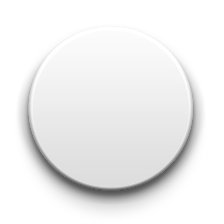
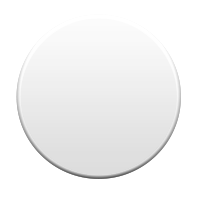
Commit

Changed region(s): [[0.06, 0.33, 0.93, 0.93], [0.81, 0.33, 0.84, 0.36]]

diff --git a/About Me/ButtonNavigationView.m b/About Me/ButtonNavigationView.m
@@ -10,6 +10,8 @@
 
 @implementation ButtonNavigationView
 
+@synthesize delegate;
+
 #pragma mark - HandleEvents
 
 - (void)buttonPress {
@@ -26,12 +28,37 @@
     }
 }
 
+#pragma mark - AwesomeMenu Delegate
+
 - (void)AwesomeMenu:(AwesomeMenu *)menu didSelectIndex:(NSInteger)idx {
-    NSLog(@"did select index: %i", idx);
+    [self performSelector:@selector(transformUp) withObject:nil afterDelay:.2];
+    [delegate didSelectButtonWithIndex:idx];
+}
+
+- (void)AwesomeMenuDidStartOpening:(AwesomeMenu *)menu {
+    [UIView animateWithDuration:.2 animations:^{
+        
+        CGAffineTransform translate = CGAffineTransformMakeTranslation(0, 150);
+        CGAffineTransform scale = CGAffineTransformMakeScale(1, 1);
+        self.transform = CGAffineTransformConcat(translate, scale);
+    }];
+}
+
+- (void)AwesomeMenuDidStartClosing:(AwesomeMenu *)menu {
+    
+    [self performSelector:@selector(transformUp) withObject:nil afterDelay:.5];
 }
 
 - (void)AwesomeMenuDidFinishAnimationOpen:(AwesomeMenu *)menu {
     NSLog(@"animation did open");
+}
+
+- (void)transformUp {
+    [UIView animateWithDuration:.2 animations:^{
+        CGAffineTransform translate = CGAffineTransformMakeTranslation(0, 0);
+        CGAffineTransform scale = CGAffineTransformMakeScale(.5, .5);
+        self.transform = CGAffineTransformConcat(translate, scale);
+    }];
 }
 
 #pragma mark - UIViewController Methods
@@ -49,15 +76,27 @@
 //    buttons = [NSMutableArray array];
     
     
-    AwesomeMenuItem *item1 = [[AwesomeMenuItem alloc] initWithImage:[UIImage imageNamed:@"circle_button.png"] highlightedImage:[UIImage imageNamed:@"circle_button_pressed.png"]];
-    AwesomeMenuItem *item2 = [[AwesomeMenuItem alloc] initWithImage:[UIImage imageNamed:@"circle_button.png"] highlightedImage:[UIImage imageNamed:@"circle_button_pressed.png"]];
-    AwesomeMenuItem *item3 = [[AwesomeMenuItem alloc] initWithImage:[UIImage imageNamed:@"circle_button.png"] highlightedImage:[UIImage imageNamed:@"circle_button_pressed.png"]];
-    AwesomeMenuItem *item4 = [[AwesomeMenuItem alloc] initWithImage:[UIImage imageNamed:@"circle_button.png"] highlightedImage:[UIImage imageNamed:@"circle_button_pressed.png"]];
-    AwesomeMenuItem *item5 = [[AwesomeMenuItem alloc] initWithImage:[UIImage imageNamed:@"circle_button.png"] highlightedImage:[UIImage imageNamed:@"circle_button_pressed.png"]];
-    AwesomeMenuItem *item6 = [[AwesomeMenuItem alloc] initWithImage:[UIImage imageNamed:@"circle_button.png"] highlightedImage:[UIImage imageNamed:@"circle_button_pressed.png"]];
+    AwesomeMenuItem *item1 = [[AwesomeMenuItem alloc] initWithImage:[UIImage imageNamed:@"circle_button.png"] highlightedImage:[UIImage imageNamed:@"circle_button_pressed.png"] ContentImage:nil highlightedContentImage:nil];
+    AwesomeMenuItem *item2 = [[AwesomeMenuItem alloc] initWithImage:[UIImage imageNamed:@"circle_button.png"] highlightedImage:[UIImage imageNamed:@"circle_button_pressed.png"] ContentImage:nil highlightedContentImage:nil];
+    AwesomeMenuItem *item3 = [[AwesomeMenuItem alloc] initWithImage:[UIImage imageNamed:@"circle_button.png"] highlightedImage:[UIImage imageNamed:@"circle_button_pressed.png"] ContentImage:nil highlightedContentImage:nil];
+    AwesomeMenuItem *item4 = [[AwesomeMenuItem alloc] initWithImage:[UIImage imageNamed:@"circle_button.png"] highlightedImage:[UIImage imageNamed:@"circle_button_pressed.png"] ContentImage:nil highlightedContentImage:nil];
+    AwesomeMenuItem *item5 = [[AwesomeMenuItem alloc] initWithImage:[UIImage imageNamed:@"circle_button.png"] highlightedImage:[UIImage imageNamed:@"circle_button_pressed.png"] ContentImage:nil highlightedContentImage:nil];
+    AwesomeMenuItem *item6 = [[AwesomeMenuItem alloc] initWithImage:[UIImage imageNamed:@"circle_button.png"] highlightedImage:[UIImage imageNamed:@"circle_button_pressed.png"] ContentImage:nil highlightedContentImage:nil];
 
+//    UIImage *storyMenuItemImage = [UIImage imageNamed:@"bg-menuitem.png"];
+//    UIImage *storyMenuItemImagePressed = [UIImage imageNamed:@"bg-menuitem-highlighted.png"];
+//    UIImage *starImage = [UIImage imageNamed:@"icon-star.png"];
+//    AwesomeMenuItem *starMenuItem1 = [[AwesomeMenuItem alloc] initWithImage:storyMenuItemImage
+//                                                           highlightedImage:storyMenuItemImagePressed
+//                                                               ContentImage:starImage
+//                                                    highlightedContentImage:nil];
+//    AwesomeMenuItem *starMenuItem2 = [[AwesomeMenuItem alloc] initWithImage:storyMenuItemImage
+//                                                           highlightedImage:storyMenuItemImagePressed
+//                                                               ContentImage:starImage
+//                                                    highlightedContentImage:nil];
     
     NSArray *menus = [NSArray arrayWithObjects:item1, item2, item3, item4, item5, item6, nil];
+    //NSArray *menus = [NSArray arrayWithObjects:starMenuItem1, starMenuItem2, nil];
     
     AwesomeMenu *menu = [[AwesomeMenu alloc] initWithFrame:CGRectMake(100, 100, 320, 200) menus:menus];
     

diff --git a/About Me/ViewController.m b/About Me/ViewController.m
@@ -14,9 +14,25 @@
 
 @implementation ViewController
 
+#pragma mark - ButtonNavigationViewDelegate
+
+- (void)didSelectButtonWithIndex:(int)index {
+    NSLog(@"did select index: %i", index);
+    if (index == 0) {
+        //about me
+        AboutMeViewController *aboutMe = [[AboutMeViewController alloc] init];
+        aboutMe.view.frame = CGRectOffset(aboutMe.view.frame, 0, 20);
+        aboutMe.view.alpha = 0.0f;
+        aboutMe.view.transform = CGAffineTransformMakeScale(.8, .8);
+        [self.view addSubview:aboutMe.view];
+        [UIView animateWithDuration:.2f animations:^{
+            aboutMe.view.alpha = 1.0f;
+            aboutMe.view.transform = CGAffineTransformMakeScale(1, 1);
+        }];
+    }
+}
+
 #pragma mark - Handle Events
-
-
 
 #pragma mark - UIViewController Methods
 
@@ -25,26 +41,16 @@
     [super viewDidLoad];
 	// Do any additional setup after loading the view, typically from a nib.
     
-    //buttonNavView = [[ButtonNavigationView alloc] initWithFrame:CGRectMake(0, -1 * self.view.frame.size.height + heightOfButton, self.view.frame.size.width, self.view.frame.size.height)];
-    buttonNavView = [[ButtonNavigationView alloc] initWithFrame:CGRectMake(0, 0, self.view.frame.size.width, self.view.frame.size.height)];
-    //mason test
-    //[self.view addSubview:buttonNavView];
     
-    AwesomeMenuItem *item1 = [[AwesomeMenuItem alloc] initWithImage:[UIImage imageNamed:@"circle_button.png"] highlightedImage:[UIImage imageNamed:@"circle_button_pressed.png"]];
-    AwesomeMenuItem *item2 = [[AwesomeMenuItem alloc] initWithImage:[UIImage imageNamed:@"circle_button.png"] highlightedImage:[UIImage imageNamed:@"circle_button_pressed.png"]];
-    AwesomeMenuItem *item3 = [[AwesomeMenuItem alloc] initWithImage:[UIImage imageNamed:@"circle_button.png"] highlightedImage:[UIImage imageNamed:@"circle_button_pressed.png"]];
-    AwesomeMenuItem *item4 = [[AwesomeMenuItem alloc] initWithImage:[UIImage imageNamed:@"circle_button.png"] highlightedImage:[UIImage imageNamed:@"circle_button_pressed.png"]];
-    AwesomeMenuItem *item5 = [[AwesomeMenuItem alloc] initWithImage:[UIImage imageNamed:@"circle_button.png"] highlightedImage:[UIImage imageNamed:@"circle_button_pressed.png"]];
-    AwesomeMenuItem *item6 = [[AwesomeMenuItem alloc] initWithImage:[UIImage imageNamed:@"circle_button.png"] highlightedImage:[UIImage imageNamed:@"circle_button_pressed.png"]];
-    
-    
-    NSArray *menus = [NSArray arrayWithObjects:item1, item2, item3, item4, item5, item6, nil];
-    
-    AwesomeMenu *menu = [[AwesomeMenu alloc] initWithFrame:CGRectMake(100, 100, 320, 200) menus:menus];
-    
-    menu.startPoint = CGPointMake(60, 150);
-    menu.delegate = self;
-    [self.view addSubview:menu];
+    buttonNavView = [[ButtonNavigationView alloc] initWithFrame:CGRectMake(0, -1 * self.view.frame.size.height/2 + heightOfButton/2, self.view.frame.size.width, self.view.frame.size.height)];
+    buttonNavView.delegate = self;
+    buttonNavView.transform = CGAffineTransformMakeScale(.5, .5);
+    [self.view.window addSubview:buttonNavView];
+
+    UIView *test = [[UIView alloc] initWithFrame:CGRectMake(0, 0, 1500, 1500)];
+    test.backgroundColor = [UIColor blueColor];
+    [self.view.window addSubview:test];
+
     
 }
 

diff --git a/About Me/AwesomeMenu.m b/About Me/AwesomeMenu.m
@@ -143,6 +143,8 @@ static CGPoint RotateCGPointAroundCenter(CGPoint point, CGPoint center, float an
 
 - (void)touchesBegan:(NSSet *)touches withEvent:(UIEvent *)event
 {
+    NSLog(@"touches began on view");
+    [_delegate AwesomeMenuDidStartClosing:self];
     self.expanding = !self.isExpanding;
 }
 
@@ -151,6 +153,8 @@ static CGPoint RotateCGPointAroundCenter(CGPoint point, CGPoint center, float an
 {
     if (item == _addButton) 
     {
+        NSLog(@"touches starting");
+        [_delegate AwesomeMenuDidStartOpening:self];
         self.expanding = !self.isExpanding;
     }
 }
@@ -161,6 +165,7 @@ static CGPoint RotateCGPointAroundCenter(CGPoint point, CGPoint center, float an
     {
         return;
     }
+    NSLog(@"touches ended");
     // blowup the selected menu button
     CAAnimationGroup *blowup = [self _blowupAnimationAtPoint:item.center];
     [item.layer addAnimation:blowup forKey:@"blowup"];

diff --git a/About Me/AboutMeViewController.m b/About Me/AboutMeViewController.m
@@ -1,0 +1,46 @@
+//
+//  AboutMeViewController.m
+//  About Me
+//
+//  Created by Mason Wolters on 4/25/13.
+//  Copyright (c) 2013 Big Head Apps. All rights reserved.
+//
+
+#import "AboutMeViewController.h"
+
+@interface AboutMeViewController ()
+
+@end
+
+@implementation AboutMeViewController
+
+- (id)init {
+    self = [super init];
+    
+    self.view.backgroundColor = [UIColor orangeColor];
+    
+    return self;
+}
+
+- (id)initWithNibName:(NSString *)nibNameOrNil bundle:(NSBundle *)nibBundleOrNil
+{
+    self = [super initWithNibName:nibNameOrNil bundle:nibBundleOrNil];
+    if (self) {
+        // Custom initialization
+    }
+    return self;
+}
+
+- (void)viewDidLoad
+{
+    [super viewDidLoad];
+	// Do any additional setup after loading the view.
+}
+
+- (void)didReceiveMemoryWarning
+{
+    [super didReceiveMemoryWarning];
+    // Dispose of any resources that can be recreated.
+}
+
+@end

diff --git a/About Me/AppDelegate.m b/About Me/AppDelegate.m
@@ -10,13 +10,15 @@
 
 @implementation AppDelegate
 
+@synthesize window = _window;
+
 - (BOOL)application:(UIApplication *)application didFinishLaunchingWithOptions:(NSDictionary *)launchOptions
 {
     // Override point for customization after application launch.
     
 //    self.window = [[UIWindow alloc] initWithFrame:[[UIScreen mainScreen] bounds]];
 //    self.window.backgroundColor = [UIColor whiteColor];
-//    
+//
 //    ViewController *root = [[ViewController alloc] init];
 //    self.window.rootViewController = root;
 //    

diff --git a/About Me/ButtonNavigationView.h b/About Me/ButtonNavigationView.h
@@ -12,12 +12,18 @@
 #define heightOfButton 70
 #define numberOfButtons 6
 
+@protocol ButtonNavigationViewDelegate <NSObject>
+
+- (void)didSelectButtonWithIndex:(int)index;
+
+@end
+
 @interface ButtonNavigationView : UIView <AwesomeMenuDelegate> {
     UIButton *navButton;
     BOOL buttonDown;
     NSMutableArray *buttons;
 }
 
-
+@property (strong, nonatomic) NSObject<ButtonNavigationViewDelegate> *delegate;
 
 @end

diff --git a/About Me/ViewController.h b/About Me/ViewController.h
@@ -9,9 +9,12 @@
 #import <UIKit/UIKit.h>
 #import "ButtonNavigationView.h"
 #import "AwesomeMenu.h"
+#import "AboutMeViewController.h"
 
-@interface ViewController : UIViewController {
+@interface ViewController : UIViewController <ButtonNavigationViewDelegate> {
     ButtonNavigationView *buttonNavView;
 }
+
+
 
 @end

diff --git a/About Me/AwesomeMenu.h b/About Me/AwesomeMenu.h
@@ -49,4 +49,6 @@
 @optional
 - (void)AwesomeMenuDidFinishAnimationClose:(AwesomeMenu *)menu;
 - (void)AwesomeMenuDidFinishAnimationOpen:(AwesomeMenu *)menu;
+- (void)AwesomeMenuDidStartOpening:(AwesomeMenu *)menu;
+- (void)AwesomeMenuDidStartClosing:(AwesomeMenu *)menu;
 @end

diff --git a/About Me/AboutMeViewController.h b/About Me/AboutMeViewController.h
@@ -1,0 +1,13 @@
+//
+//  AboutMeViewController.h
+//  About Me
+//
+//  Created by Mason Wolters on 4/25/13.
+//  Copyright (c) 2013 Big Head Apps. All rights reserved.
+//
+
+#import <UIKit/UIKit.h>
+
+@interface AboutMeViewController : UIViewController
+
+@end
